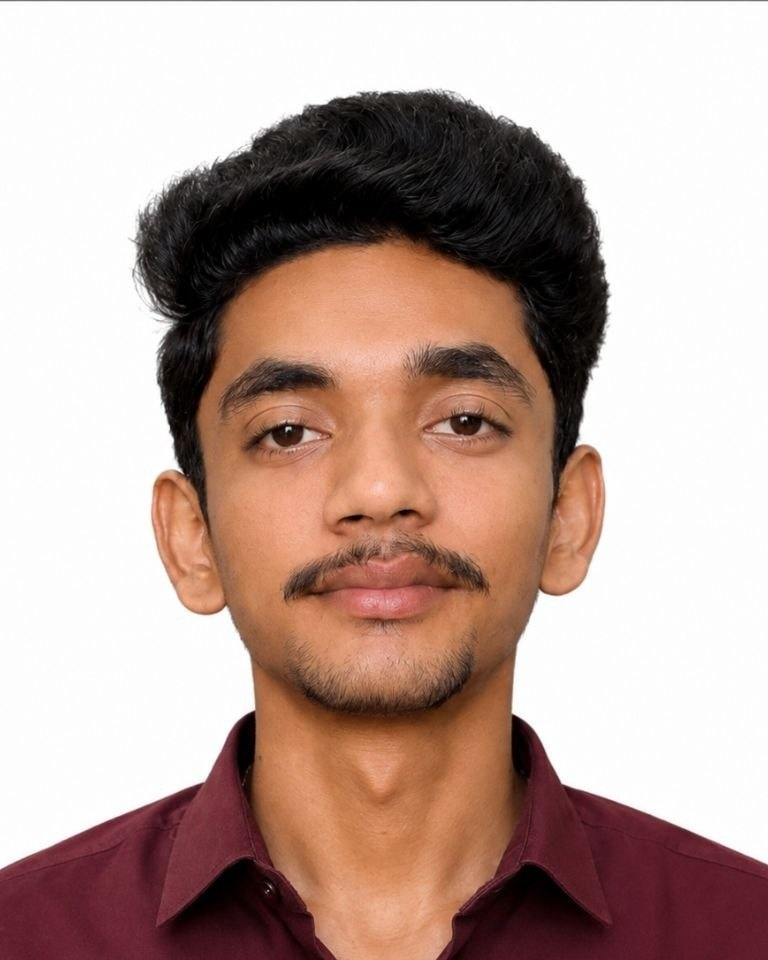
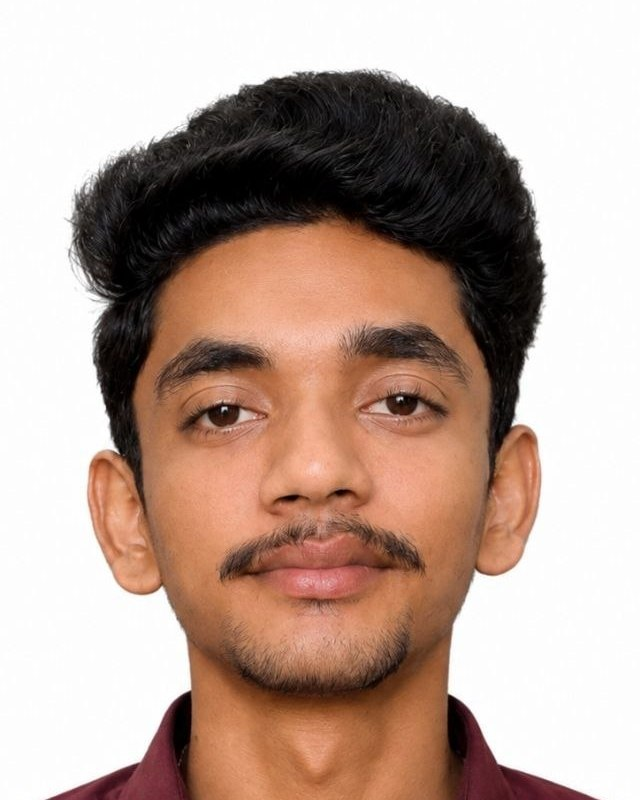
Founders: remove shoulder fade, sharp portraits, full-bleed Ismat photo
- Drop the edge fade mask so shoulders are no longer blurred
- Re-crop Aryan and Adarsh as head/neck busts so the shoulders don't
  touch the photo edges; side fill now matches the photo edge colours
- Jatin: wall-coloured left fill instead of a jacket-coloured band
- Ismat: use the full original photo edge-to-edge in the placeholder
  (new full-bleed variant), no extra crop or blur
- Bump photo cache-bust to ?v=3

diff --git a/product.html b/product.html
@@ -547,7 +547,7 @@ h1,h2,h3,h4{ margin:0; font-weight:700; letter-spacing:-.02em; line-height:1.1; 
 }
 .founder-card:hover{ border-color:var(--border-2); background:rgba(124,77,255,.06); transform:translateY(-4px); }
 /* Full-bleed photo header, same treatment as the .f-visual area on the feature cards.
-   The portrait sits centred at full height; its edge colours (--bgl / --bgr) fill the sides. */
+   The portrait sits centred at full height; its edge colours (--bgl / --bgr) fill the sides, matched so no fade is needed. */
 .founder-photo{
   width:100%; aspect-ratio:2/1; margin-bottom:22px; flex-shrink:0; position:relative; overflow:hidden;
   background:radial-gradient(120% 100% at 50% -20%, rgba(124,77,255,.13), transparent 60%),
@@ -562,9 +562,13 @@ h1,h2,h3,h4{ margin:0; font-weight:700; letter-spacing:-.02em; line-height:1.1; 
 .founder-photo img{
   position:absolute; top:0; left:50%; height:100%; aspect-ratio:4/5; width:auto; display:block; object-fit:cover;
   transform:translateX(-50%);
-  -webkit-mask-image:linear-gradient(90deg,transparent,#000 16%,#000 84%,transparent);
-          mask-image:linear-gradient(90deg,transparent,#000 16%,#000 84%,transparent);
   -webkit-user-drag:none; user-select:none;
+}
+/* Full-bleed variant: the photo fills the whole block edge to edge (no side fill) */
+.founder-photo.cover::before{ display:none; }
+.founder-photo.cover img{
+  left:0; width:100%; aspect-ratio:auto; transform:none;
+  object-position:var(--pos,50% 50%);
 }
 .founder-body{ padding:0 26px; }
 .founder-card h4{ font-size:1rem; margin-bottom:4px; }
@@ -1193,10 +1197,10 @@ footer{ border-top:1px solid var(--border); padding:60px 0 40px; background:rgba
 /* ================= founders carousel ================= */
 (function(){
   const FOUNDERS = [
-    { name:"Aryan Singh Sengar", role:"Founder & CTO", desc:"Leads Wynko\u2019s technology and product development, turning the vision into a focused study platform built for serious students.", photo:"founder-aryan.jpg?v=2", l:["#fdfdfd","#fdfdfd","#fdfdfd"], r:["#fdfdfd","#fdfdfd","#fdfdfd"] },
-    { name:"Jatin Sinsinwar", role:"Co-founder & CEO", desc:"Leads Wynko\u2019s vision, growth, and business strategy, working to build a study platform that can scale from India to students globally.", photo:"founder-jatin.jpg?v=2", l:["#795d40","#af8962","#d78232"], r:["#624932","#a17a52","#a17c58"] },
-    { name:"Adarsh Singh", role:"Chief Marketing Officer", desc:"Leads Wynko\u2019s marketing and brand growth, helping connect the product with students and build a strong community around focused learning.", photo:"founder-adarsh.jpg?v=2", l:["#fcfcfc","#fdfdfd","#fcfcfc"], r:["#fcfcfc","#fdfdfd","#fcfcfc"] },
-    { name:"Ismat Makwana", role:"Cybersecurity Expert", desc:"Helps strengthen Wynko\u2019s security and privacy, focusing on protecting the platform, its users, and the data behind a trusted study experience.", photo:"founder-ismat.jpg?v=2", l:["#add0ec","#abd2f2","#96bfe1"], r:["#a9cbe6","#8ea6bb","#a8b0b8"] }
+    { name:"Aryan Singh Sengar", role:"Founder & CTO", desc:"Leads Wynko\u2019s technology and product development, turning the vision into a focused study platform built for serious students.", photo:"founder-aryan.jpg?v=3", l:["#fdfdfd","#fdfdfd","#fdfdfd","#fdfdfd","#fdfdfd","#fdfdfd","#fdfdfd","#fdfdfd","#fdfdfd","#fdfdfd","#fdfdfd","#fdfdfd","#fdfdfd","#fdfdfd","#fdfdfd","#fdfdfd"], r:["#fdfdfd","#fdfdfd","#fdfdfd","#fdfdfd","#fdfdfd","#fdfdfd","#fdfdfd","#fdfdfd","#fdfdfd","#fdfdfd","#fdfdfd","#fdfdfd","#fdfdfd","#fdfdfd","#fdfdfd","#fdfdfd"] },
+    { name:"Jatin Sinsinwar", role:"Co-founder & CEO", desc:"Leads Wynko\u2019s vision, growth, and business strategy, working to build a study platform that can scale from India to students globally.", photo:"founder-jatin.jpg?v=3", l:["#73583c","#7f6144","#89694b","#92714f","#9c7854","#a27e59","#a9835e","#ad8760","#b08a63","#b48e67","#b69069","#b89269","#ba946b","#bc966d","#be986f","#bf9a71"], r:["#5d452f","#674d34","#73563b","#7e5f42","#896747","#94704b","#9b764f","#a07a51","#a07a53","#9f7853","#a57e56","#ab835a","#ab855c","#a9835b","#a47f5a","#9c7956"] },
+    { name:"Adarsh Singh", role:"Chief Marketing Officer", desc:"Leads Wynko\u2019s marketing and brand growth, helping connect the product with students and build a strong community around focused learning.", photo:"founder-adarsh.jpg?v=3", l:["#fdfdfd","#fdfdfd","#fdfdfd","#fdfdfd","#fdfdfd","#fdfdfd","#fdfdfd","#fdfdfd","#fdfdfd","#fdfdfd","#fdfdfd","#fdfdfd","#fdfdfd","#fdfdfd","#fdfdfd","#fdfdfd"], r:["#fdfdfd","#fdfdfd","#fdfdfd","#fdfdfd","#fdfdfd","#fdfdfd","#fdfdfd","#fdfdfd","#fdfdfd","#fdfdfd","#fdfdfd","#fdfdfd","#fdfdfd","#fdfdfd","#fdfdfd","#fdfdfd"] },
+    { name:"Ismat Makwana", role:"Cybersecurity Expert", desc:"Helps strengthen Wynko\u2019s security and privacy, focusing on protecting the platform, its users, and the data behind a trusted study experience.", photo:"founder-ismat.jpg?v=3", cover:true, pos:"50% 64%" }
   ];
 
   const track = document.getElementById('foundersTrack');
@@ -1207,14 +1211,17 @@ footer{ border-top:1px solid var(--border); padding:60px 0 40px; background:rgba
   const photoIcon = '<svg viewBox="0 0 24 24"><circle cx="12" cy="8" r="4"/><path d="M4 20c0-4 3.6-6.5 8-6.5S20 16 20 20"/></svg>';
 
   function tileHTML(f){
-    const vars = f.photo
-      ? ' style="--bgl:linear-gradient(180deg,' + f.l.join(',') + ');--bgr:linear-gradient(180deg,' + f.r.join(',') + ')"'
-      : '';
+    let vars = '';
+    if (f.photo) {
+      vars = f.cover
+        ? ' style="--pos:' + (f.pos || '50% 50%') + '"'
+        : ' style="--bgl:linear-gradient(180deg,' + f.l.join(',') + ');--bgr:linear-gradient(180deg,' + f.r.join(',') + ')"';
+    }
     const media = f.photo
       ? '<img src="' + f.photo + '" alt="' + f.name + '" loading="lazy" draggable="false" />'
       : photoIcon;
     return '<div class="founder-tile"><div class="founder-card">' +
-      '<div class="founder-photo"' + vars + '>' + media + '</div>' +
+      '<div class="founder-photo' + (f.cover ? ' cover' : '') + '"' + vars + '>' + media + '</div>' +
       '<div class="founder-body">' +
       '<h4>' + f.name + '</h4>' +
       '<div class="role">' + f.role + '</div>' +
